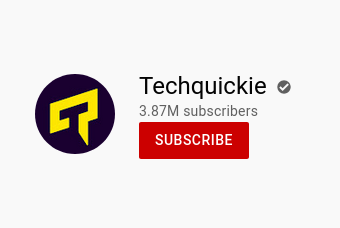
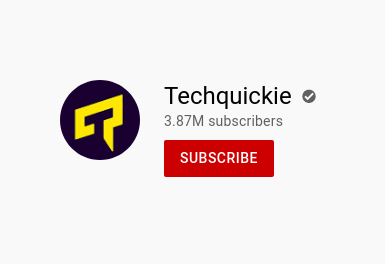
[performance] Optimise images #1
Closes #1

Changed region(s): [[0.4118, 0.307, 0.8529, 0.7061], [0.0882, 0.2763, 0.3824, 0.6754]]

diff --git a/README.md b/README.md
@@ -17,6 +17,30 @@ npm install -g @angular/cli
 
 - Enter your sites / categories: `src/assets/data/`
 
+### Images
+
+#### YouTube Images capture
+
+1. Go to channel Page
+2. Set screen size to `705x650` from console.
+3. Find `id="channel-header"` and set following properties to element:
+
+```css
+    padding: 80px;
+    margin: 160px;
+    padding-right: 20px;
+    padding-left: 60px;
+
+```
+
+4. Capture the element from Firefox screenshot capture tool.
+
+#### Compress Images
+
+1. Install: `sudo apt-get install jpegoptim imagemagick`
+2. Convert to jpg: `convert "<filename>.<format>" "<filename>.jpg"`
+3. Compress: `jpegoptim --size=<estimate-goal-size>k *`
+
 ### Host
 
 If you want to host your own version, follow these steps:
